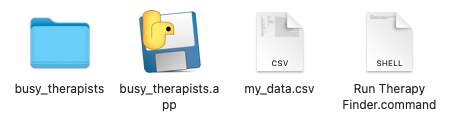
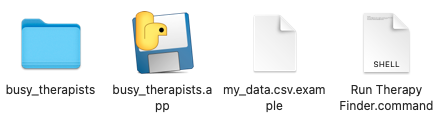
Write install_nontechnical.md with macOS security walkthrough
Full non-technical install guide: download, my_data setup, one-time
macOS security approval flow with 6 annotated screenshots, and
first-run instructions.

diff --git a/docs/install_nontechnical.md b/docs/install_nontechnical.md
@@ -1,28 +1,41 @@
 # Getting Started (No coding required)
 
 > You don't need to install Python or use a terminal. Just download the app, fill in one file, and double-click to run.
+>
+> **This app currently runs on macOS (Apple Silicon only — M1, M2, M3 etc chips). Windows and Intel Mac support is planned.**
 
 ---
 
 ## Step 1: Download the app
 
-[TODO: Link to the latest release on GitHub. Mention which file to download for macOS vs Windows.]
+1. Go to the [latest release on GitHub](https://github.com/sasanamari/busy_therapists/releases/latest)
+2. Download `TherapyFinder_macOS.zip`
+3. Double-click the zip file to unzip it — a folder called `busy_therapists` will appear
+4. Move that folder somewhere convenient, like your Desktop or Documents
 
 ---
 
 ## Step 2: Set up your data file
 
-The tool reads your personal details from a file called `my_data.csv`. A template is included in the download.
+The tool reads your personal details from a file called `my_data.csv` (or `my_data.numbers`). A template is included in the download.
 
-1. Find `my_data.csv.example` in the same folder as the app.
-2. Make a copy of it and rename the copy `my_data.csv`.
-3. Open `my_data.csv`:
-   - **Windows**: right-click → Open with → Excel (or Google Sheets)
-   - **Mac**: double-click (opens in Numbers), or right-click → Open with → Excel
-4. Fill in the **Your data** column with your information. The **Notes** column explains each field.
-5. Save the file.
+1. Open the `busy_therapists` folder — you should see these files:
 
-For a full explanation of every field, see [my_data.csv reference](my_data_reference.md).
+   ![Folder contents showing busy_therapists folder, busy_therapists.app, my_data.csv, and Run Therapy Finder.command](screenshots/01_folder_contents.png)
+
+2. Make a copy of `my_data.csv.example` and rename the copy to `my_data.csv`
+   - **How to copy on Mac:** right-click the file → Duplicate, then rename it
+   - The file must be named exactly `my_data.csv` — the tool won't find it otherwise
+
+3. Open your `my_data.csv`:
+   - **Easiest option:** double-click — it opens in Numbers. Numbers will save it automatically in its own format, and the tool will still find it. No need to export back to CSV.
+   - **Alternatively:** right-click → Open With → Excel or Google Sheets
+
+4. Fill in the **Your data** column. The **Notes** column explains each field. You don't need to fill everything in right away — come back and update it as you progress through the process.
+
+5. Save the file (Cmd+S, or just close Numbers — it saves automatically).
+
+For a full explanation of every field, see the [my_data.csv reference](my_data_reference.md).
 
 > `my_data.csv` stays on your computer — it is never uploaded anywhere.
 
@@ -30,10 +43,54 @@ For a full explanation of every field, see [my_data.csv reference](my_data_refer
 
 ## Step 3: Run the tool
 
-[TODO: Double-click instructions for macOS (.app) and Windows (.exe). Mention that a terminal window will open — this is normal.]
+Double-click `Run Therapy Finder.command`.
+
+**The first time you run it, macOS will block it** — this is normal for apps downloaded from the internet that aren't from the App Store.
+
+### One-time security approval (macOS only)
+
+**1.** When you double-click `Run Therapy Finder.command`, you'll see this warning:
+
+![macOS warning: "Run Therapy Finder.command" Not Opened](screenshots/02_security_warning.png)
+
+Click **Done** (not "Move to Trash").
 
 ---
 
-## Step 4: Follow the guide
+**2.** Open **System Settings** → **Privacy & Security**. Scroll down to the **Security** section. You'll see a message saying the file was blocked, with an **Open Anyway** button next to it:
 
-The tool will show a numbered menu. Read the [step-by-step guide](guide.md) to understand which option to use and when.
+![Privacy & Security settings showing "Open Anyway" button](screenshots/03_privacy_and_security.png)
+
+Click **Open Anyway**.
+
+---
+
+**3.** A second confirmation dialog will appear:
+
+![Second confirmation dialog with "Open Anyway" button](screenshots/04_open_anyway.png)
+
+Click **Open Anyway** again.
+
+---
+
+**4.** You'll be asked to confirm with your password or Touch ID:
+
+![Password/Touch ID prompt](screenshots/05_password_prompt.png)
+
+Use Touch ID or click **Use Password...** and enter your Mac login password.
+
+---
+
+**That's it — you only need to do this once.** After the first approval, double-clicking `Run Therapy Finder.command` will launch the tool directly.
+
+---
+
+## Step 4: Use the tool
+
+A terminal window opens and the tool loads your data, then shows a numbered menu:
+
+![App running showing the numbered menu](screenshots/06_app_running.png)
+
+Type a number and press Enter to run that option. Read the [step-by-step guide](guide.md) to understand which option to use and when.
+
+When the tool finishes, the terminal window stays open showing `[Process completed]`. You can close it with **Cmd+W**.
